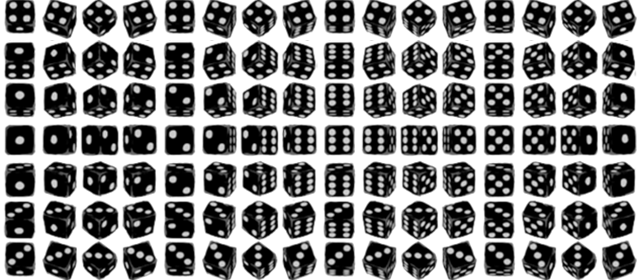
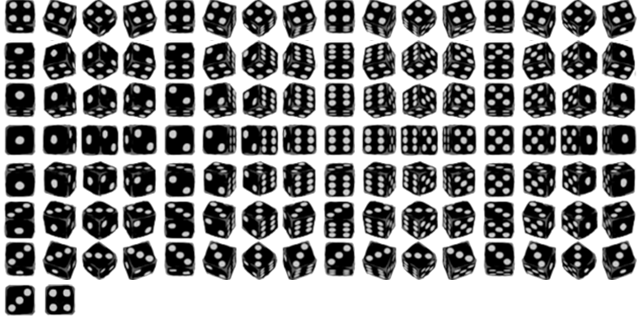
Added flat faces and stop at actual at top down dice.

diff --git a/src/js/app/views/SimulationDie.js b/src/js/app/views/SimulationDie.js
@@ -10,7 +10,7 @@ const diceProps = {
   options: {
     label: 'Die',
     frictionAir: 0.025,
-    restitution: 0.3,
+    restitution: 0.5,
     density: 0.05
   }
 };
@@ -38,6 +38,10 @@ export default class SimulationDie extends EventEmitter {
       return;
     }
 
+    if (this._isNotMoving) {
+      this.finalizeDie();
+    }
+
     // one way data flow for positioning.
     this.position = this.physics.position;
     this.rotation = this.physics.angle;
@@ -52,16 +56,36 @@ export default class SimulationDie extends EventEmitter {
   }
 
   detectSleep() {
-    this.sprite.stop();
     return this.emit('sleepStart', this);
+  }
+
+  finalizeDie() {
+    if (this.finalized) {
+      return;
+    }
+
+    // assumes all frames are available
+    let diceFace = [48, 52, 112, 113, 60,56];
+
+    this.sprite.gotoAndStop(_(diceFace).sample());
+    this.finalized = true;
+  }
+
+  _isNotMoving() {
+    return this._averageVelocity() <= 0;
+  }
+
+  _averageVelocity() {
+    let velocity = (this.physics.velocity.x + this.physics.velocity.y)/2;
+    return Math.floor(Math.abs(velocity));
   }
 
   _createDiePhysics() {
     return Bodies.rectangle(
-      this.position.x, 
-      this.position.y, 
-      diceProps.size, 
-      diceProps.size, 
+      this.position.x,
+      this.position.y,
+      diceProps.size,
+      diceProps.size,
       diceProps.options
     );
   }
@@ -71,6 +95,7 @@ export default class SimulationDie extends EventEmitter {
 
     die.anchor.set(0.5, 0.5);
     die.position = this.position;
+    die.animationSpeed = 1.5;
     die.play();
 
     return die;
@@ -80,8 +105,9 @@ export default class SimulationDie extends EventEmitter {
     let frames = [];
     let randomOffset = _.random(0,6) * 16;
 
-    _(16).times((index)=> {
-      let num = randomOffset + index + 1;
+    _(114).times((index)=> {
+      // let num = randomOffset + index + 1;
+      let num = index + 1;
       frames.push(PIXI.Texture.fromFrame(`d6_roll_${num}`));
     });
 

diff --git a/src/js/app/components/UserImage.jsx b/src/js/app/components/UserImage.jsx
@@ -6,9 +6,10 @@ export default class UserImage extends Component {
     return (
       <div className="UserImage">
         <div className="UserImage__avatar">
-          <img src="/images/profile.jpg" />
         </div>
       </div>
     );
   }
 }
+
+// <img src="/images/profile.jpg" />

diff --git a/src/js/app/views/RollSimulation.js b/src/js/app/views/RollSimulation.js
@@ -17,7 +17,7 @@ export default class RollSimulation {
     PIXI.loader
       .add('spritesheet', '/images/d6Sprite.json')
       .load(this.ready);
-     
+
     return this.stage;
   }
 
